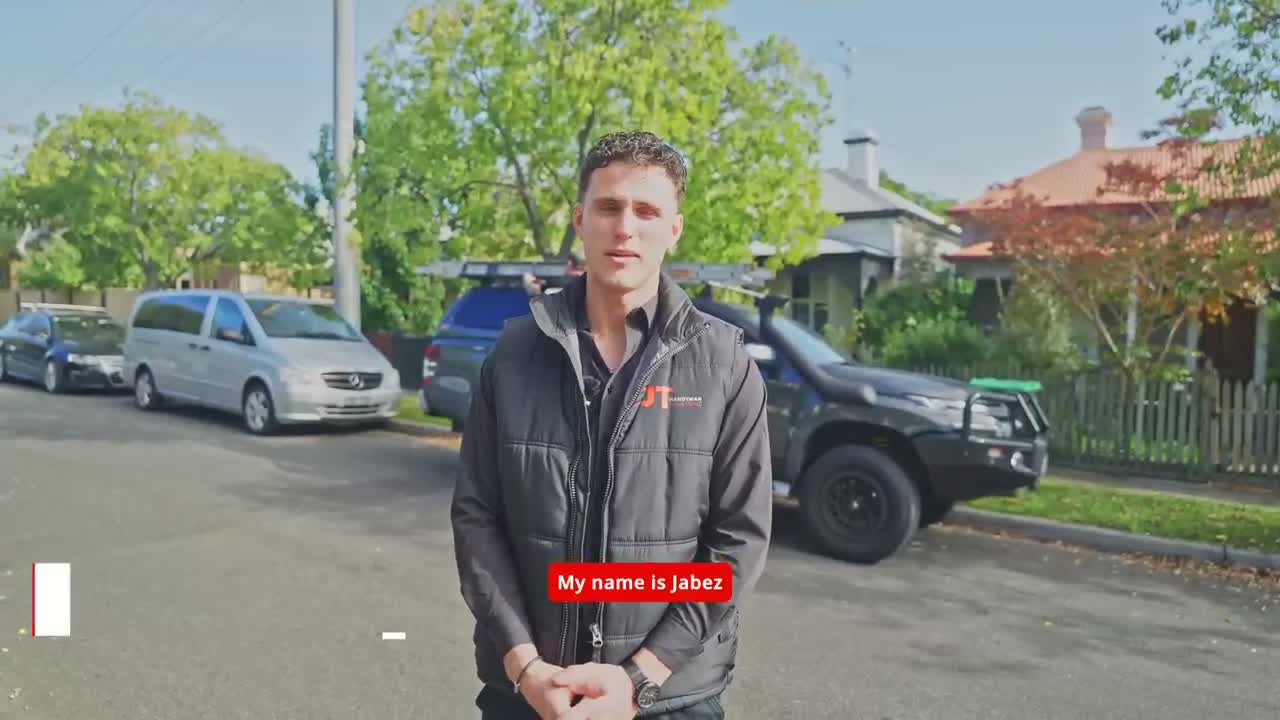
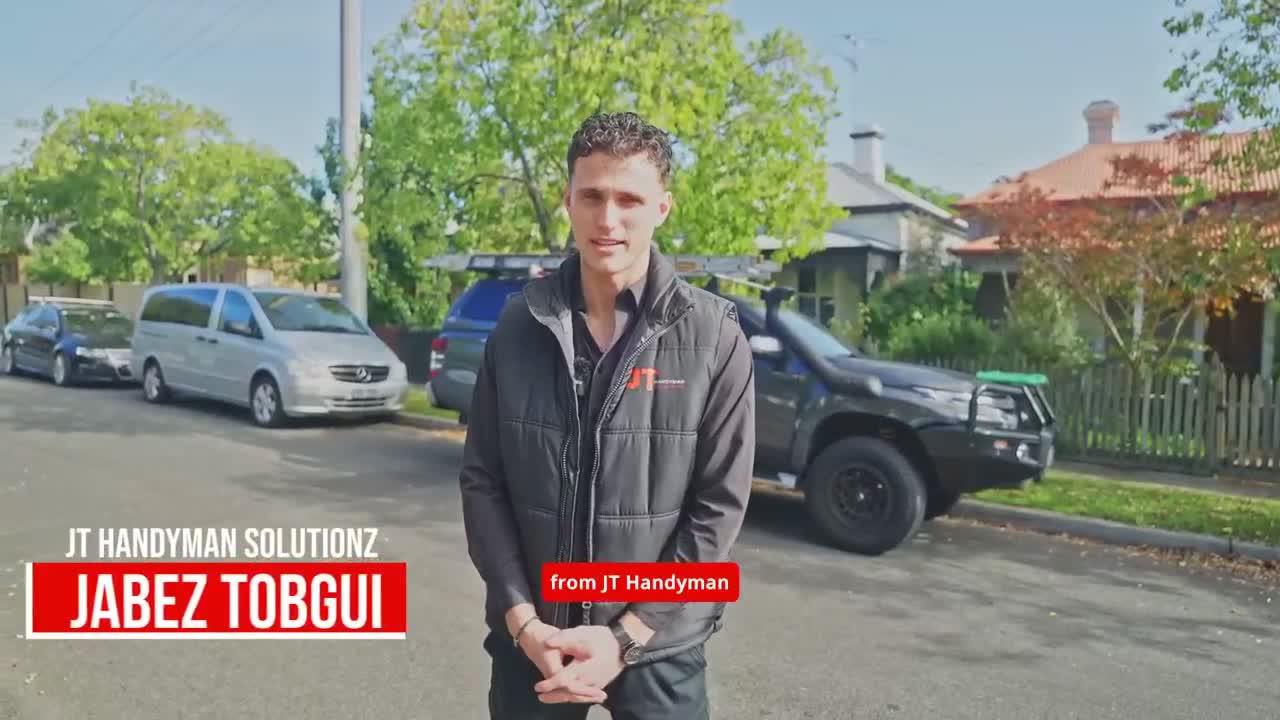
Update the index.html file and the poster image.

diff --git a/index.html b/index.html
@@ -105,7 +105,7 @@ p{ font-size:1.02rem; line-height:1.65; }
 .header-actions .phone-link{ white-space:nowrap; font-size:.95rem; transition:opacity .2s ease; }
 .header-actions .phone-link:hover{ opacity:.55; }
 .header-actions .btn{ white-space:nowrap; padding:.7rem 1.4rem; margin-left:14px; }
-.video-card{ border:0 !important; box-shadow:none !important; }
+.video-card{ border:2px solid #0c0d0f !important; box-shadow:none !important; padding:0 !important; background:transparent !important; }
 .video-card video, .video-card img{ border:0 !important; }
 @media(max-width:900px){
   .main-nav{ display:none; }
@@ -315,18 +315,18 @@ body.modal-open { overflow:hidden; }
       <h2>A word from Jabez</h2>
       <p>Why your time matters, and why your quote shouldn't take weeks.</p>
     </div>
-    <div class="video-card" style="position:relative;overflow:hidden;border-radius:16px;aspect-ratio:16/9;max-width:800px;margin:0 auto;">
+    <div class="video-card" style="position:relative;overflow:hidden;border-radius:16px;aspect-ratio:16/9;max-width:800px;margin:0 auto;border:2px solid #0c0d0f;padding:0;background:transparent;box-shadow:none;">
       <video id="vidWord" poster="img/work/jt-founder-word-poster.jpg" playsinline muted preload="metadata" style="width:100%;height:100%;object-fit:cover;display:block;cursor:pointer;" onclick="toggleVid('vidWord')">
         <source src="img/work/jt-founder-word-melbourne.mp4" type="video/mp4">
       </video>
       <button class="play-btn" id="vidWordPlay" aria-label="Play video" onclick="toggleVid('vidWord')" style="position:absolute;top:50%;left:50%;transform:translate(-50%,-50%);">▶</button>
-      <div style="position:absolute;left:0;right:0;bottom:0;padding:20px;background:linear-gradient(to top, rgba(0,0,0,.75), transparent);">
-        <p style="color:#fff;margin-bottom:6px;cursor:pointer;" onclick="unmuteVid('vidWord')" id="vidWordSound">🔊 Tap for sound</p>
-        <div class="cta-row" style="margin-bottom:0;">
-          <a href="javascript:void(0)" onclick="openQuoteModal()" class="btn btn-primary">Get an Instant Quote</a>
-          <a href="about.html#founder" class="btn btn-ghost on-dark">Learn more about our founder →</a>
-        </div>
+      <div style="position:absolute;left:0;right:0;bottom:0;padding:16px 20px;background:linear-gradient(to top, rgba(0,0,0,.6), transparent 70%);">
+        <p style="color:#fff;margin:0;cursor:pointer;" onclick="unmuteVid('vidWord')" id="vidWordSound">🔊 Tap for sound</p>
       </div>
+    </div>
+    <div class="cta-row" style="justify-content:center;margin-top:24px;max-width:800px;margin-left:auto;margin-right:auto;">
+      <a href="javascript:void(0)" onclick="openQuoteModal()" class="btn btn-primary">Get an Instant Quote</a>
+      <a href="about.html#founder" class="btn btn-ghost">Learn more about our founder →</a>
     </div>
   </div>
 </section>
@@ -464,7 +464,7 @@ body.modal-open { overflow:hidden; }
       <h2>Meet Jabez</h2>
       <p style="max-width:640px;margin:0 auto;">Jabez started JT with a pair of hands and one belief: people deserve a trade that turns up, communicates and gets it done. In under two years he's grown JT from one person to a 24 strong in-house team, by building systems around the things that usually go wrong. His goal is simple: eliminate the waste and miscommunication that make trades so painful to deal with.</p>
     </div>
-    <div class="video-card" style="position:relative;overflow:hidden;border-radius:16px;aspect-ratio:16/9;max-width:800px;margin:0 auto;border:0 !important;">
+    <div class="video-card" style="position:relative;overflow:hidden;border-radius:16px;aspect-ratio:16/9;max-width:800px;margin:0 auto;border:2px solid #0c0d0f;padding:0;background:transparent;box-shadow:none;">
       <video id="vidJabez" poster="img/work/jt-meet-jabez-poster.jpg" playsinline muted preload="metadata" style="width:100%;height:100%;object-fit:cover;display:block;cursor:pointer;" onclick="toggleVid('vidJabez')">
         <source src="img/work/jt-meet-jabez-founder-melbourne.mp4" type="video/mp4">
       </video>
